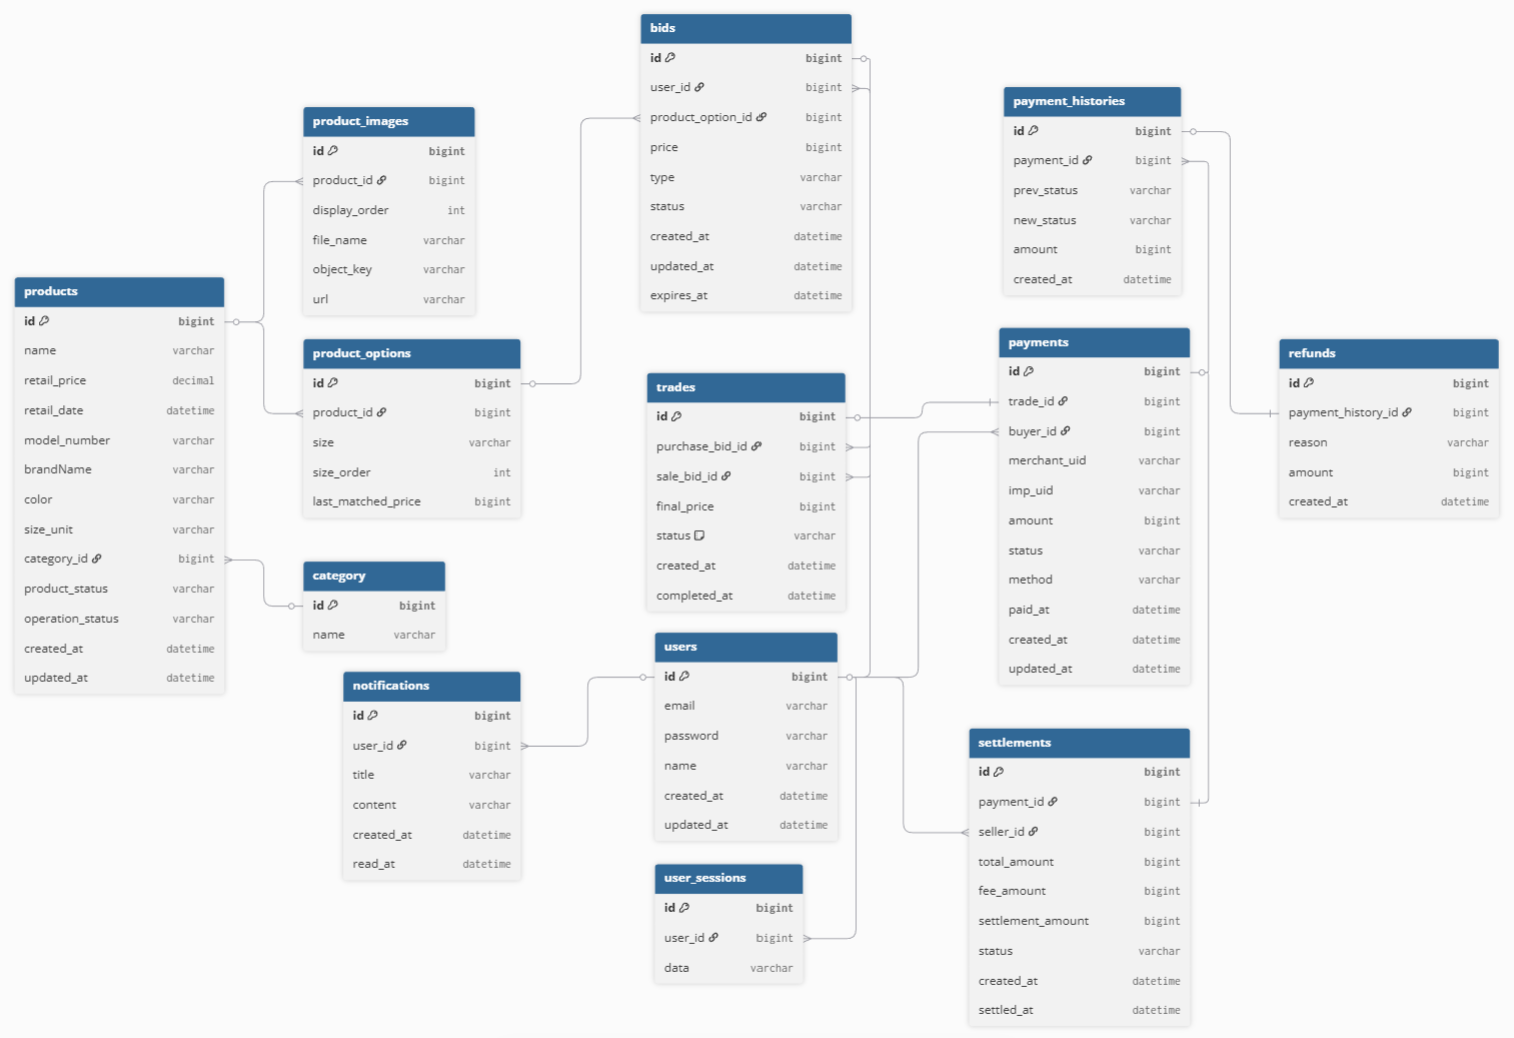
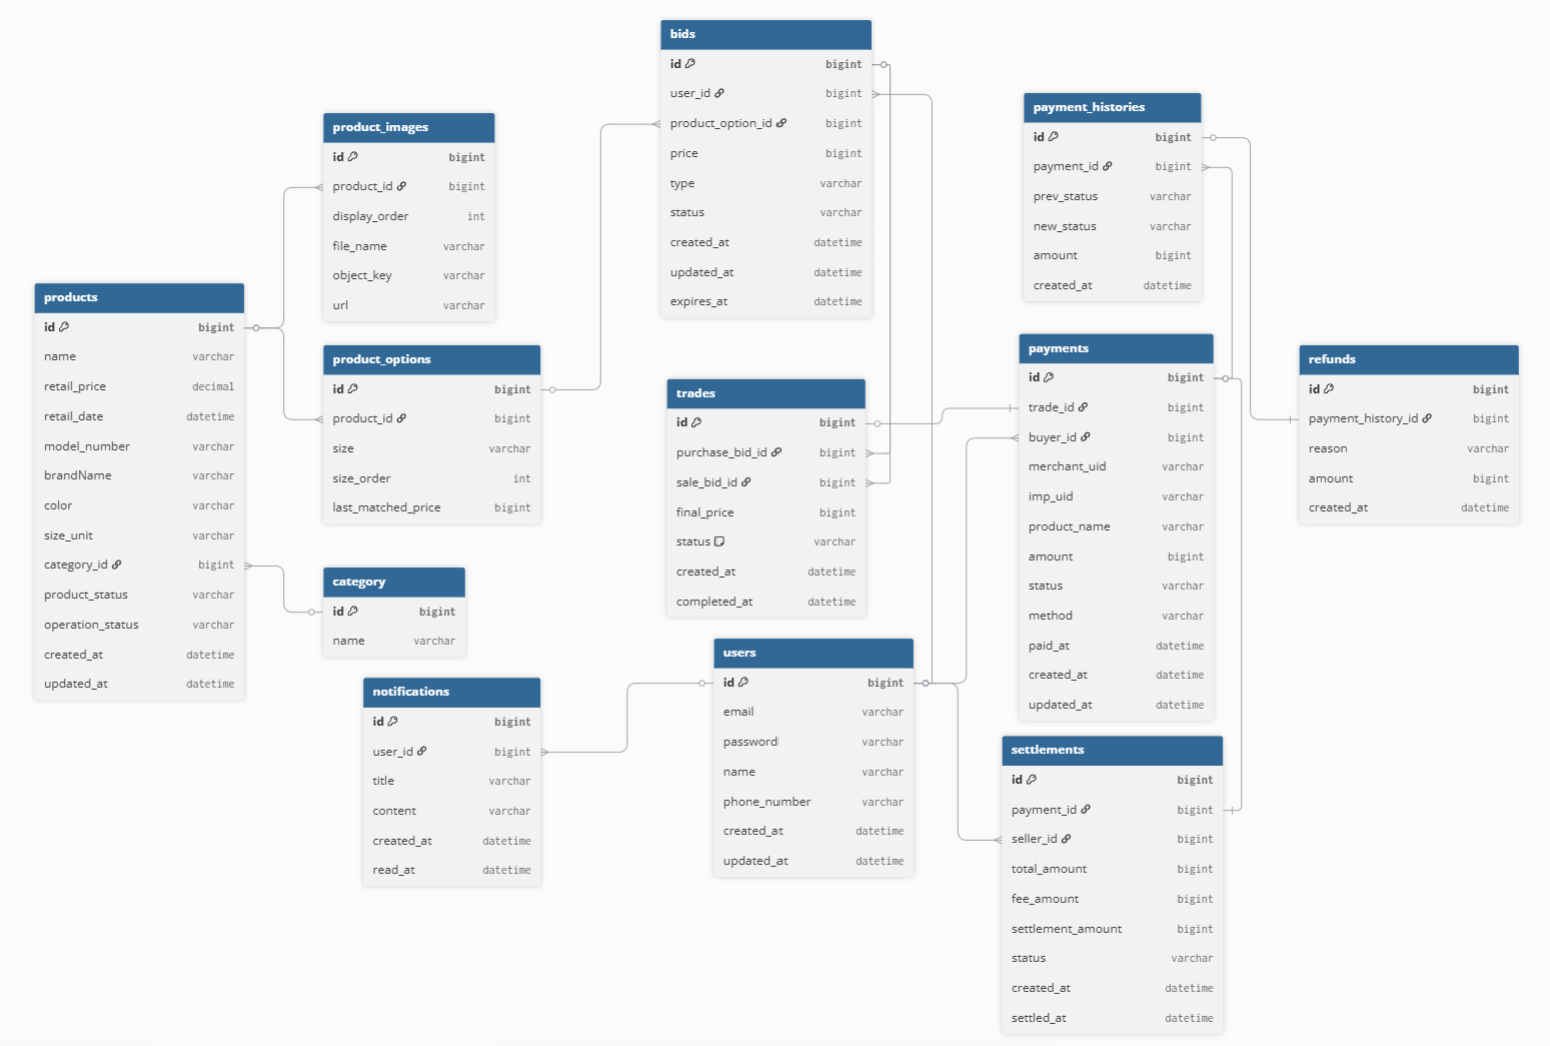
docs: 첨부 이미지 교체 및 인프라 수정
- ERD, 시스템 아키텍처 수정
- 시스템 흐름도 Mermaid 코드 → 이미지로 교체

Refs: #113

diff --git a/README.md b/README.md
@@ -36,7 +36,7 @@
 
 ### Tools
 * Build: Gradle
-* Documentation: Postman
+* Documentation: Swagger
 * Version Control: Git
 * Collaboration: Slack, Notion
 ---
@@ -48,68 +48,14 @@
 프로젝트의 데이터 모델은 거래의 유연성과 이력 관리에 집중하여 설계되었습니다.
 * Bid (Purchase/Sale): 사용자의 입찰 정보를 저장하며, Trade로 체결되기 전까지의 상태를 관리합니다.
 * Trade: 입찰이 일치하거나 즉시 구매/판매가 이루어질 때 생성되는 핵심 거래 데이터입니다.
-* Payment & History: 결제 상태(READY, PAID, CANCELLED)를 관리하며, 결제 시점의 모든 로그를 PaymentHistory에 기록하여 추적 가능성을 높였습니다.
+* Payment & History: 결제 정보, 결제 상태(READY, PAID, CANCELLED)를 관리하며, 결제 시점의 로그를 PaymentHistory에 기록하여 추적 가능성을 높였습니다.
+* Settlement: 판매자에게 지급할 정산금 내역 정보를 저장하며, 
 * BaseTimeEntity: 모든 엔티티가 상속받아 생성/수정 시간을 자동 추적하도록 공통화하였습니다.
 
 ---
 ### 시스템 아키텍처
 ![img_2.png](img_2.png)
-``` mermaid
-graph TB
-%% Nodes Definition
-User((사용자))
-
-    subgraph GitHub_Ecosystem [GitHub & CI/CD]
-        Repo[GitHub Repository]
-        GA[GitHub Actions]
-    end
-
-    subgraph AWS_Cloud [AWS Cloud]
-        subgraph VPC [VPC]
-            subgraph Public_Subnet [Public Subnet]
-                subgraph EC2 [EC2 Instance]
-                    subgraph Docker_Env [Docker Container]
-                        SB[Spring Boot App]
-                    end
-                end
-            end
-
-            subgraph Private_Subnet [Private Subnet]
-                subgraph EC2_pri [EC2 Instance]
-                    subgraph Docker_DB [Docker Container]
-                        MySQL[MySQL]
-                        Redis[Redis]
-                    end
-                end
-            end
-
-        end
-        
-        S3[Amazon S3<br/>Object Storage]
-    end
-
-    subgraph External_API [External Services]
-        Portone[Portone V2 API]
-    end
-
-    %% Deployment Flow
-    Repo -->|Code Push| GA
-    GA -->|Build & Deploy| Docker_Env
-
-    %% Service Flow
-    User -->|HTTP| SB
-    SB <-->|JPA/SQL| EC2_pri
-    SB <-->|File I/O| S3
-    SB <-->|REST API| Portone
-
-    %% Styling
-    style AWS_Cloud fill:#f1faff,stroke:#0073bb,stroke-width:2px
-    style VPC fill:#ffffff,stroke:#0073bb,stroke-width:2px,stroke-dasharray: 5 5
-    style Docker_Env fill:#e1f5fe,stroke:#008bb9,stroke-width:2px
-    style Docker_DB fill:#e1f5fe,stroke:#008bb9,stroke-width:2px
-    style Portone fill:#fff1f1,stroke:#ff4d4d,stroke-width:2px
-    style GitHub_Ecosystem fill:#f6f8fa,stroke:#24292e,stroke-width:2px
-```
+![Develop_Flow.png](Develop_Flow.png)
 ---
 ## 4. 주요 기능 (Key Features)
 ### 1. 입찰시스템
@@ -342,38 +288,38 @@ graph LR
 - 페이지 디자인 및 백엔드 연계 작업
   백엔드 개발 작업에 집중하기 위해 UI/UX 디자인은 [Stitch](https://stitch.withgoogle.com/), 프론트엔드 페이지 구성은 [Antigravity](https://antigravity.google/)를 활용했습니다. 프론트엔드와 연계하는 과정에서 백엔드에서 전달되어야 하는 데이터 응답 구조를 재차 점검하고 보완했습니다.
 ### 4.트러블 슈팅 
-- [Wiki](https://github.com/sparta-spring-1/cream/wiki/4.-%ED%8A%B8%EB%9F%AC%EB%B8%94%EC%8A%88%ED%8C%85)에  작성을 하였습니다.
+- [Wiki](https://github.com/sparta-spring-1/cream/wiki/4.-%ED%8A%B8%EB%9F%AC%EB%B8%94%EC%8A%88%ED%8C%85)에  작성하였습니다.
 ---
 
 ## 6. API 명세 (API Documentation)
 
-| Domain      | Method | Endpoint                          | Description        |
-|-------------|--------|-----------------------------------|--------------------|
-| Auth        | POST   | /v1/auth/signup                   | 회원가입 및 권한 부여       |
-| Auth        | POST   | /v1/auth/login                    | 로그인                |
-| Auth        | POST   | /v1/auth/reissue                  | 토큰 재발급|
-| Mypage      | GET    | /v1/me                            |마이페이지|
-| Payment     | POST   | /v1/payments/prepare              |결제 준비|
-| Payment     | POST   | /v1/payments/{paymentId}/complete |결제 완료요청|
-| Payment     | POST   | /v1/payments/{paymentId}/refund   |환불요청|
-| Payment     | GET    | /v1/payments                      |결제데이터 조회|
-| Payment     | GET    | /v1/payments/{paymentId}          |특정 결제의 상세 정보를 조회|
-| Admin       | POST   | /v1/admin/images/upload           |이미지 업로드|
-| Admin       | PATCH  | /v1/admin/bids/{bidId}               | 관리자 권한으로 특정  입찰을 강제 취소 |
-| Product     | POST   | /v1/admin/products                | 상품등록|
-| Product     | PUT    | /v1/admin/products/{produvtId}    |상품 업데이트|
-| Product     | DELETE | /v1/admin/products/{produvtId}    | 상품삭제|
-| Settlements | POST   | /v1/settlements                   |사용자 본인의 전체 정산 내역을 조회|
-| Settlements | POST   | /v1/settlements/{settlementId}    |특정 정산의 상세 정보를 조회|
-| Product     | GET    | /v1/products/{id}                 | 상품 상세 및 시세 조회      |
-| Bid         | POST   | /v1/bids                          | 구매/판매 입찰 등록        |
-|Bid| GET    | /v1/bids/me                       |현재 내가 입찰 중인 내역 확인|
-|Bid| GET    | /v1/bids                          |	특정 상품의 입찰 리스트 조회|
-|Bid| PATCH  | /v1/bids/{id}                     |	체결 전 입찰가 또는 상품 옵션 변경|
-|Bid| DELETE | /v1/bids/{id}	                    |입찰 취소|
-| Trade | DELETE | /v1/trades/{tradeId}              | 체결취소 및 체결 취소 패널티 로직 가동      |
-|Notification|GET|/v1/notification|알림 목록 조회|
-|Notification|GET|/v1/notification/subscribe|사용자의 실시간 알림 구독을 위한 SSE 연결을 생성|
+| Domain      | Method | Endpoint                          | Description                   |
+|-------------|--------|-----------------------------------|-------------------------------|
+| Auth        | POST   | /v1/auth/signup                   | 회원가입 및 권한 부여                  |
+| Auth        | POST   | /v1/auth/login                    | 로그인                           |
+| Auth        | POST   | /v1/auth/reissue                  | 토큰 재발급                        |
+| Mypage      | GET    | /v1/me                            | 마이페이지                         |
+| Payment     | POST   | /v1/payments/prepare              | 결제 준비                         |
+| Payment     | POST   | /v1/payments/{paymentId}/complete | 결제 완료 검증                      |
+| Payment     | POST   | /v1/payments/{paymentId}/refund   | 환불 요청                         |
+| Payment     | GET    | /v1/payments                      | 결제 정보 조회                      |
+| Payment     | GET    | /v1/payments/{paymentId}          | 특정 결제의 상세 정보를 조회              |
+| Admin       | POST   | /v1/admin/images/upload           | 이미지 업로드                       |
+| Admin       | PATCH  | /v1/admin/bids/{bidId}               | 관리자 권한으로 특정  입찰을 강제 취소        |
+| Product     | POST   | /v1/admin/products                | 상품등록                          |
+| Product     | PUT    | /v1/admin/products/{produvtId}    | 상품 업데이트                       |
+| Product     | DELETE | /v1/admin/products/{produvtId}    | 상품삭제                          |
+| Settlements | POST   | /v1/settlements                   | 사용자 본인의 전체 정산 내역을 조회          |
+| Settlements | POST   | /v1/settlements/{settlementId}    | 특정 정산의 상세 정보를 조회              |
+| Product     | GET    | /v1/products/{id}                 | 상품 상세 및 시세 조회                 |
+| Bid         | POST   | /v1/bids                          | 구매/판매 입찰 등록                   |
+|Bid| GET    | /v1/bids/me                       | 현재 내가 입찰 중인 내역 확인             |
+|Bid| GET    | /v1/bids                          | 	특정 상품의 입찰 리스트 조회             |
+|Bid| PATCH  | /v1/bids/{id}                     | 	체결 전 입찰가 또는 상품 옵션 변경         |
+|Bid| DELETE | /v1/bids/{id}	                    | 입찰 취소                         |
+| Trade | DELETE | /v1/trades/{tradeId}              | 체결취소 및 체결 취소 패널티 로직 가동        |
+|Notification|GET|/v1/notification| 알림 목록 조회                      |
+|Notification|GET|/v1/notification/subscribe| 사용자의 실시간 알림 구독을 위한 SSE 연결을 생성 |
 
 ---
 
@@ -415,14 +361,14 @@ cd cream
 ### 3. 환경 변수 설정 (Environment Variables)
 - 애플리케이션 실행을 위해 환경 변수 설정이 필요합니다. 
 
-| 분류                                                             | 변수명                                                 | 설명                   |
-|----------------------------------------------------------------|-----------------------------------------------------|----------------------|
-| Database                                                       | LOCAL_DB_USERNAME / LOCAL_DB_PASSWORD,MySQL 접속 계정 정보 
-| Redis                                                          | REDIS_HOST / REDIS_PASSWORD                         | Redis 서버 주소 및 비밀번호   |
-| AWS| AWS_ACCESS_KEY / AWS_SECRET_KEY| S3 이미지 업로드용 자격 증명    |
-| AWS| BUCKET_NAME / AWS_REGION                            | S3 버킷 정보             |
-| Payment| PORTONE_STORE_ID / PORTONE_API_SECRET               | 포트원(PortOne) 결제 연동 키 |
-|Security| JWT_SECRET / JWT_ISSUER                             | JWT 토큰 생성 및 검증용 비밀키  |
+| 분류                                                             | 변수명                                    | 설명                   |
+|----------------------------------------------------------------|----------------------------------------|----------------------|
+| Database                                                       | LOCAL_DB_USERNAME / LOCAL_DB_PASSWORD  | MySQL 접속 계정 정보 
+| Redis                                                          | REDIS_HOST / REDIS_PASSWORD            | Redis 서버 주소 및 비밀번호   |
+| AWS| AWS_ACCESS_KEY / AWS_SECRET_KEY        | S3 이미지 업로드용 자격 증명    |
+| AWS| BUCKET_NAME / AWS_REGION               | S3 버킷 정보             |
+| Payment| PORTONE_STORE_ID / PORTONE_API_SECRET  | 포트원(PortOne) 결제 연동 키 |
+|Security| JWT_SECRET / JWT_ISSUER                | JWT 토큰 생성 및 검증용 비밀키  |
 
 ### 4.어플리케이션 실행 (Run)
 ``` bash
